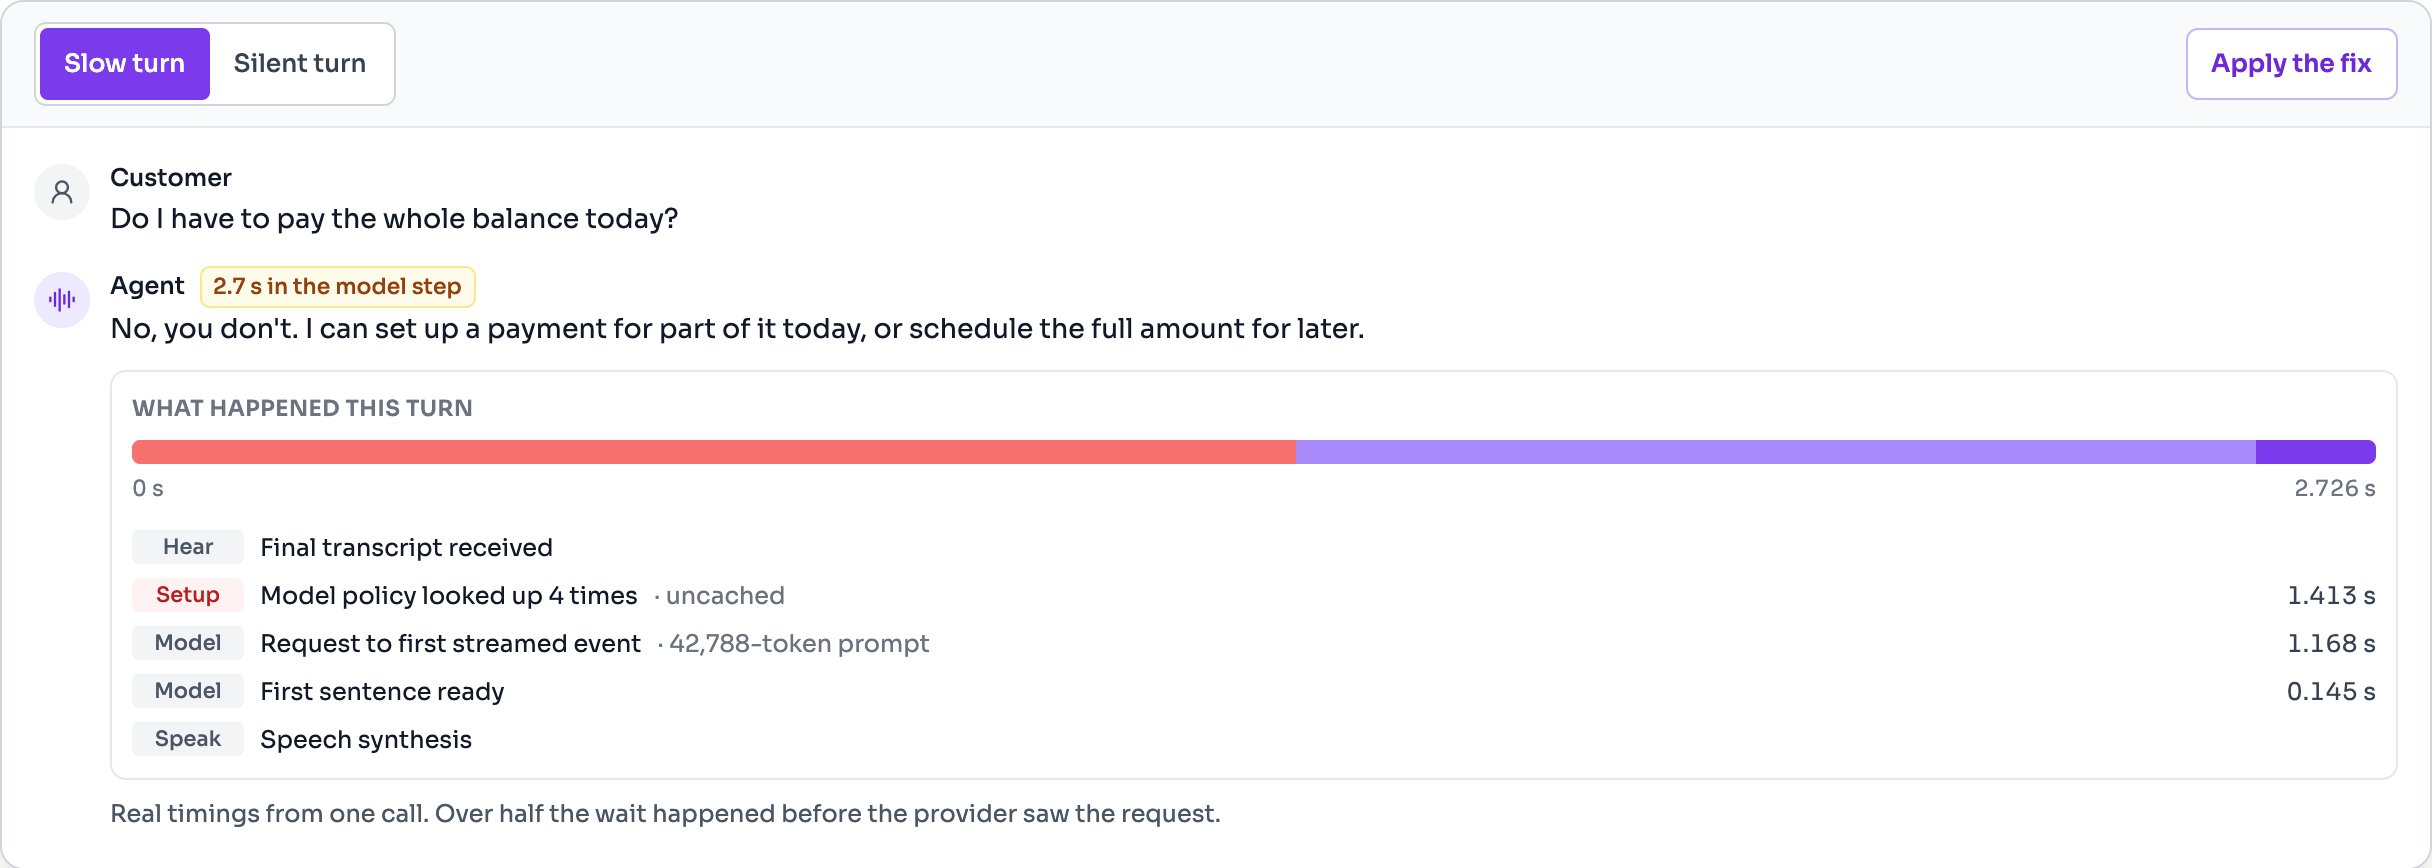
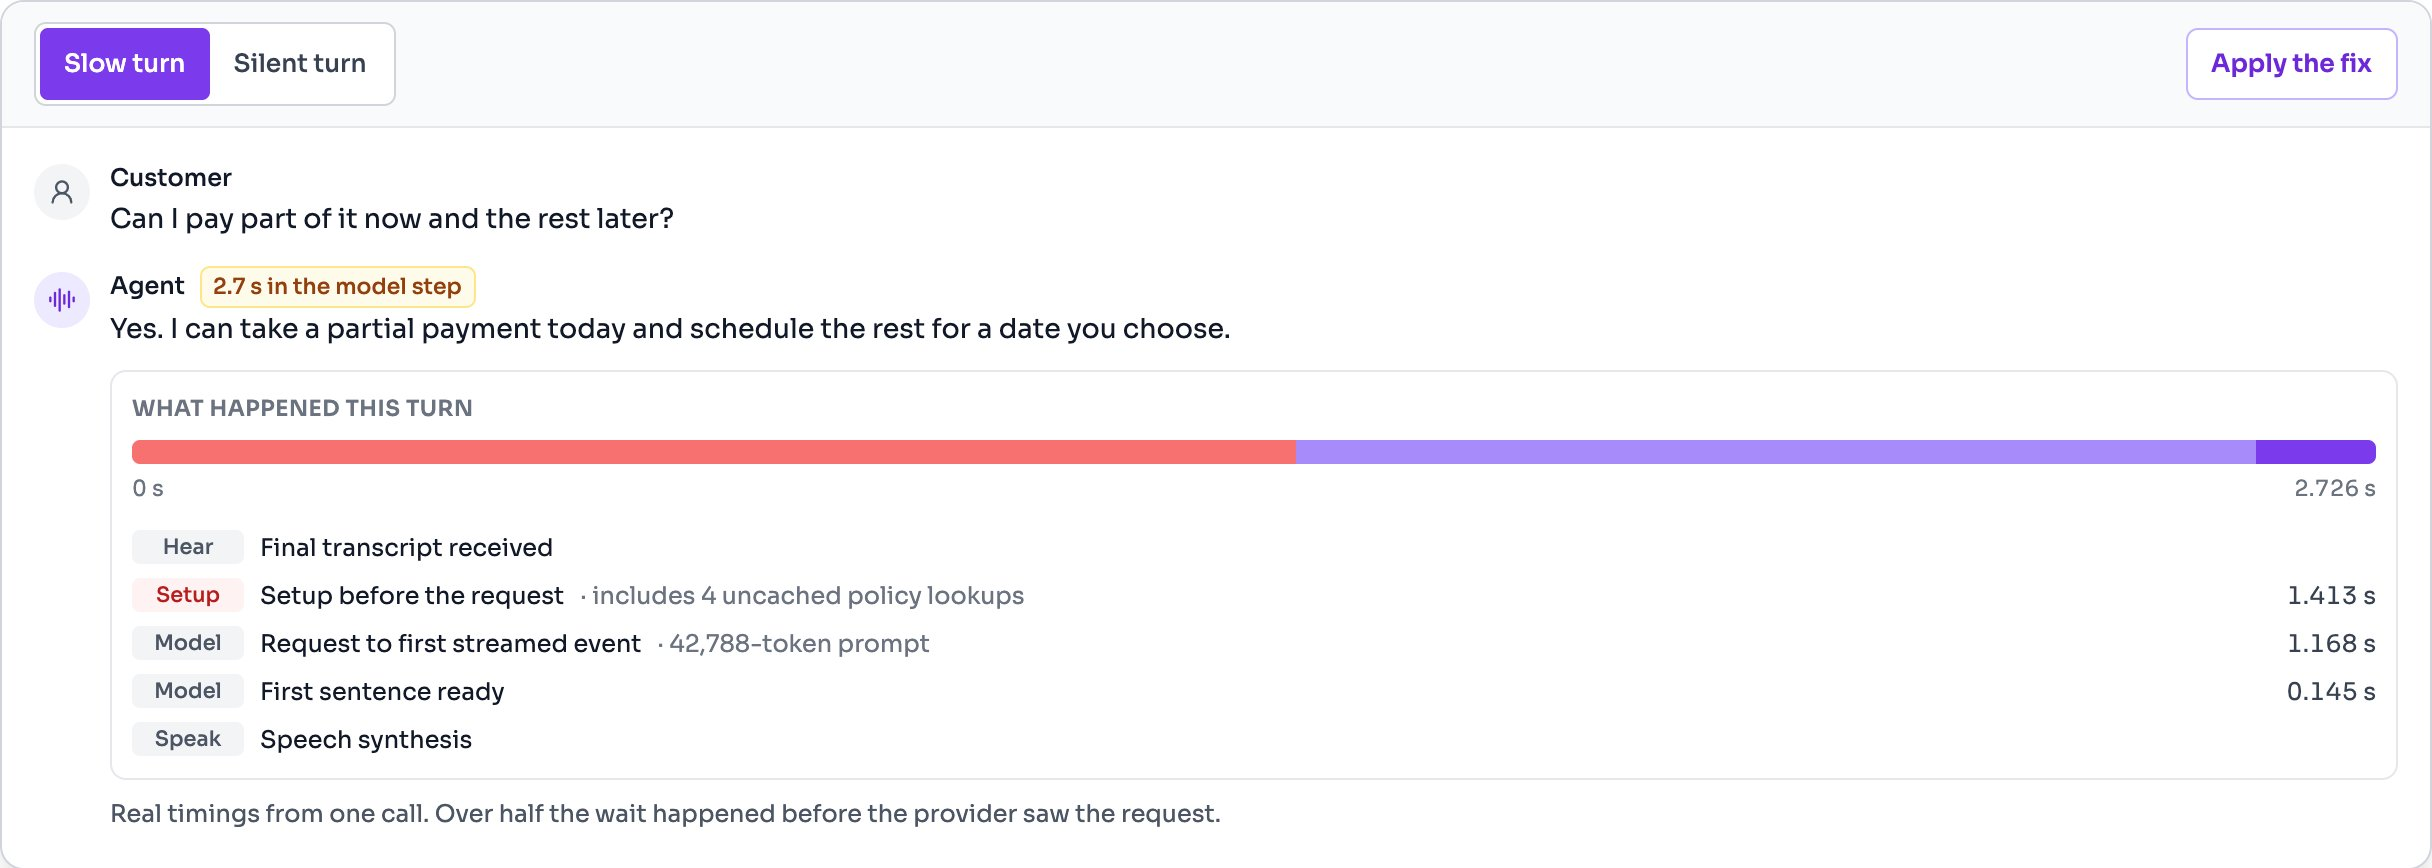
Address PR 17 review: scope staging claims, second-call status, demo wording

Changed region(s): [[0.0312, 0.3733, 0.5625, 0.4044], [0.0938, 0.6532, 0.4375, 0.7154], [0.0312, 0.2177, 0.2812, 0.28]]

diff --git a/src/components/mdx/VoiceTurnDemo.tsx b/src/components/mdx/VoiceTurnDemo.tsx
@@ -13,12 +13,12 @@ type Case = { caller: string; agent: string; flag?: string; before: Step[]; afte
 
 const CASES: Record<"slow" | "silent", Case> = {
   slow: {
-    caller: "Do I have to pay the whole balance today?",
-    agent: "No, you don't. I can set up a payment for part of it today, or schedule the full amount for later.",
+    caller: "Can I pay part of it now and the rest later?",
+    agent: "Yes. I can take a partial payment today and schedule the rest for a date you choose.",
     flag: "2.7 s in the model step",
     before: [
       { kind: "Hear", title: "Final transcript received" },
-      { kind: "Setup", title: "Model policy looked up 4 times", detail: "uncached", tone: "bad", secs: 1.413 },
+      { kind: "Setup", title: "Setup before the request", detail: "includes 4 uncached policy lookups", tone: "bad", secs: 1.413 },
       { kind: "Model", title: "Request to first streamed event", detail: "42,788-token prompt", secs: 1.168 },
       { kind: "Model", title: "First sentence ready", secs: 0.145 },
       { kind: "Speak", title: "Speech synthesis" },
@@ -86,12 +86,12 @@ export function VoiceTurnDemo() {
       <div className="flex flex-wrap items-center justify-between gap-3 border-b border-gray-200 bg-gray-50 px-4 py-2.5">
         <div role="group" aria-label="Choose a turn" className="inline-flex rounded-md border border-gray-300 bg-white p-0.5 text-[12.5px]">
           {(["slow", "silent"] as const).map(k => (
-            <button key={k} type="button" aria-pressed={which === k} onClick={() => { setWhich(k); setFixed(false); }} className={`min-h-9 rounded px-3 font-medium ${which === k ? "bg-violet-600 text-white" : "text-gray-700 hover:bg-gray-100"}`}>
+            <button key={k} type="button" aria-pressed={which === k} onClick={() => { setShown(0); setWhich(k); setFixed(false); }} className={`min-h-9 rounded px-3 font-medium ${which === k ? "bg-violet-600 text-white" : "text-gray-700 hover:bg-gray-100"}`}>
               {k === "slow" ? "Slow turn" : "Silent turn"}
             </button>
           ))}
         </div>
-        <button type="button" onClick={() => setFixed(f => !f)} className="min-h-9 rounded-md border border-violet-300 bg-white px-3 text-[12.5px] font-semibold text-violet-700 hover:bg-violet-50">
+        <button type="button" onClick={() => { setShown(0); setFixed(f => !f); }} className="min-h-9 rounded-md border border-violet-300 bg-white px-3 text-[12.5px] font-semibold text-violet-700 hover:bg-violet-50">
           {fixed ? "Show before the fix" : "Apply the fix"}
         </button>
       </div>

diff --git a/src/components/HeadlinerExperience.tsx b/src/components/HeadlinerExperience.tsx
@@ -24,11 +24,11 @@ export const HEADLINER_SUMMARIES: Record<string, ProjectSummary> = {
     standing: [{"label": "Status", "value": "In production since September 2025"}, {"label": "Scope", "value": "Two lines of business at one Fortune 100 bank"}, {"label": "Workflows", "value": "Card and auto-loan workflows. Business-performance results are private."}],
   },
   "voice-runtime": {
-    built: "Fixes to the live call path: model-step setup, the speech stream and audio across consecutive calls.",
+    built: "Fixes to the live call path: model-step setup and the speech stream, plus an investigation of lost audio on second calls.",
     value: "A slow or failed step sounds like a dropped call, so each fix targets a silence the caller would hear.",
-    evidence: "One turn spent 1.413 s of 2.726 s in our own setup. A two-call harness reproduced lost audio on the second call.",
+    evidence: "One turn spent 1.413 s of 2.726 s in our own setup. Two speech bugs that silenced calls are fixed in staging.",
     instruction: "Pick a turn, then apply the fix to see what changed. Conversation text is made up; slow-turn timings are real.",
-    standing: [{"label": "Status", "value": "Merged and running in staging"}, {"label": "Checked by", "value": "Real test calls, a scripted test caller and targeted tests"}, {"label": "Limits", "value": "Not confirmed in production; no numbers across many calls"}],
+    standing: [{"label": "Status", "value": "Latency and speech fixes merged and running in staging"}, {"label": "Checked by", "value": "Real test calls, a scripted test caller and targeted tests"}, {"label": "Limits", "value": "Second-call audio bug not fixed yet; nothing confirmed in production"}],
   },
   "voice-ai-platform": {
     built: "An evaluation console, call-review workspace, Scout investigation engine and conversational analyst.",
